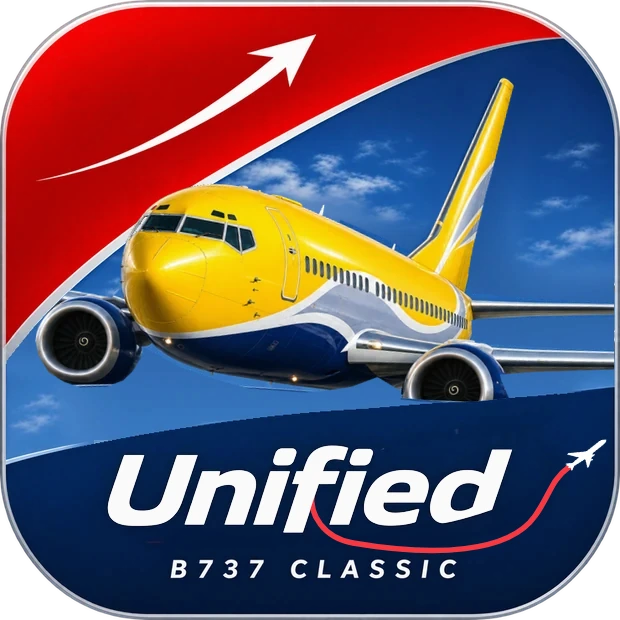
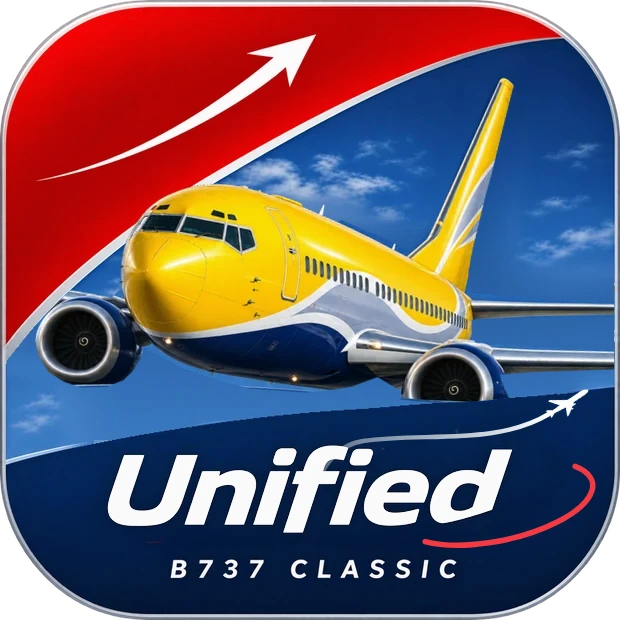
Draw a climbing contrail and a separate red welcome arc

diff --git a/panel-mosaic-lab/cockpit/index.html b/panel-mosaic-lab/cockpit/index.html
@@ -216,7 +216,7 @@ body > header.unified-minimal-header .header-settings>button{
 </style><link rel="stylesheet" href="./unified-css-safe-04-v1.css?v=BOOT-SAFE-0001">
 <script src="./smiths-fuel-quantity-v1.js?v=FUEL-QTY-20KG-0001" defer></script>
 <link rel="stylesheet" href="./unified-workspace-v1.css?v=WORKSPACE-0002">
-<link rel="stylesheet" href="./unified-welcome-v1.css?v=WELCOME-0003">
+<link rel="stylesheet" href="./unified-welcome-v1.css?v=WELCOME-0004">
 <script>
 (function(){
  const test=new URLSearchParams(location.search).get('welcomeTest')==='1';
@@ -231,11 +231,23 @@ body > header.unified-minimal-header .header-settings>button{
   <div class="welcome-intro" aria-hidden="true">
    <div class="welcome-intro-window"><div class="welcome-intro-jet"></div></div>
    <svg class="welcome-intro-flight" viewBox="0 0 620 620" focusable="false">
-    <path id="unifiedIntroFlightPath" d="M 312 493 C 309 515 324 538 353 543 C 435 557 509 553 535 516 C 550 495 551 480 569 467"
-      pathLength="1" fill="none" stroke="#f53942" stroke-width="5.5" stroke-linecap="round"
+    <defs>
+     <linearGradient id="unifiedIntroContrail" gradientUnits="userSpaceOnUse" x1="312" x2="549" y1="493" y2="414">
+      <stop offset="0" stop-color="#fff" stop-opacity=".28"/>
+      <stop offset="1" stop-color="#fff"/>
+     </linearGradient>
+    </defs>
+    <path id="unifiedIntroFlightPath" d="M 312 493 C 322 469 335 445 363 441 C 422 432 496 446 549 414"
+      pathLength="1" fill="none" stroke="url(#unifiedIntroContrail)" stroke-width="4.4" stroke-linecap="round"
       stroke-dasharray="1 1" stroke-dashoffset="1">
      <animate attributeName="stroke-dashoffset" from="1" to="0" begin="1.2s" dur="2.3s"
        calcMode="spline" keyTimes="0;1" keySplines=".33 0 .27 1" fill="freeze"/>
+    </path>
+    <path class="welcome-intro-red-arc" d="M 425.2 541.6 A 98 38 -12 0 0 575.1 466.4" pathLength="1"
+      fill="none" stroke="#f53942" stroke-width="5.5" stroke-linecap="round"
+      stroke-dasharray="1 1" stroke-dashoffset="1">
+     <animate attributeName="stroke-dashoffset" from="1" to="0" begin="2.05s" dur="1.05s"
+       calcMode="spline" keyTimes="0;1" keySplines=".3 0 .24 1" fill="freeze"/>
     </path>
     <g visibility="hidden">
      <set attributeName="visibility" to="visible" begin="1.2s" fill="freeze"/>

diff --git a/panel-mosaic-lab/cockpit/unified-welcome-v1.css b/panel-mosaic-lab/cockpit/unified-welcome-v1.css
@@ -163,7 +163,7 @@
 @media (max-width: 680px) { #unifiedWelcome .welcome-setup { grid-template-columns: minmax(0, 1fr); } }
 @media (prefers-reduced-motion: reduce) {
   #unifiedWelcome[data-stage="welcome"] .welcome-intro {
-    background-image: url("./brand/unified-intro-still.webp?v=WELCOME-0003");
+    background-image: url("./brand/unified-intro-still.webp?v=WELCOME-0004");
   }
   #unifiedWelcome .welcome-intro-window,
   #unifiedWelcome .welcome-intro-wordmark,
